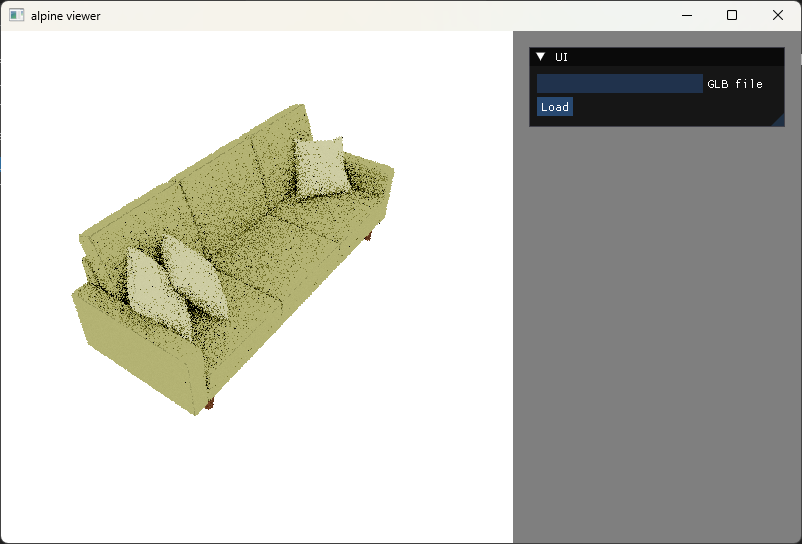
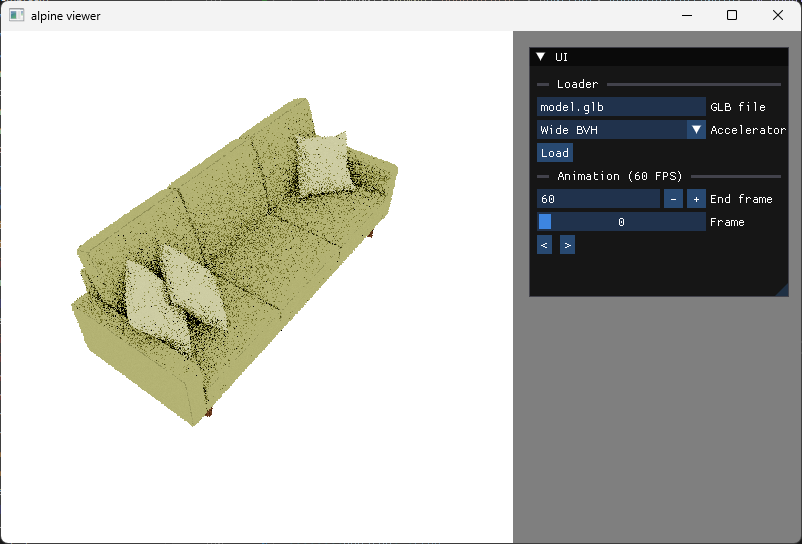
update viewer UI

diff --git a/applications/viewer/main.cpp b/applications/viewer/main.cpp
@@ -23,8 +23,10 @@ static constexpr float ZOOM_SPEED = 0.5f;
 static constexpr float DELTA_TIME = 1.0f / 60.0f;
 
 alpine::api::Camera* gCamera = nullptr;
+alpine::AcceleratorType gAcceleratorType = alpine::AcceleratorType::Bvh;
 
-float gTime = 0.0f;
+int gFrame = 0;
+int gEndFrame = 60;
 
 GLuint createRenderTexture()
 {
@@ -75,22 +77,11 @@ void updateRenderTexture(GLuint rt, const void* pixels)
     glBindTexture(GL_TEXTURE_2D, 0);
 }
 
-void updateScene(GLFWwindow* window)
+void updateScene()
 {
-    if (!alpine::isDynamicScene())
-    {
-        return;
-    }
-
-    bool isRightPressed = glfwGetKey(window, GLFW_KEY_RIGHT) == GLFW_PRESS;
-    bool isLeftPressed = glfwGetKey(window, GLFW_KEY_LEFT) == GLFW_PRESS;
-
-    if (isRightPressed || isLeftPressed)
-    {
-        gTime = isRightPressed ? gTime + DELTA_TIME : std::max(gTime - DELTA_TIME, 0.0f);
-        alpine::updateScene(gTime);
-        alpine::resetAccumulation();
-    }
+    float time = static_cast<float>(gFrame) * DELTA_TIME;
+    alpine::updateScene(time);
+    alpine::resetAccumulation();
 }
 
 void updateCamera()
@@ -159,29 +150,84 @@ void showRenderTexturePanel(GLuint rt)
     ImGui::PopStyleVar(2);
 }
 
-void showLoadButton()
+void showLoader()
 {
-    ImGui::SetNextWindowPos(ImVec2(IMAGE_WIDTH + 16, 16), ImGuiCond_Once);
-    ImGui::SetNextWindowSize(ImVec2(256, 80), ImGuiCond_Once);
+    ImGui::SeparatorText("Loader");
 
-    ImGui::Begin("UI");
+    static char sFile[512] = "";
+    ImGui::InputText("GLB file", sFile, sizeof(sFile));
 
-    static char file[512] = "";
-    ImGui::InputText("GLB file", file, sizeof(file));
+    static const char* kAcceleratorLabels[] = {
+        "BVH",
+        "Wide BVH",
+        "Embree",
+    };
+
+    int acceleratorType = static_cast<int>(gAcceleratorType);
+    if (ImGui::Combo("Accelerator", &acceleratorType, kAcceleratorLabels, IM_ARRAYSIZE(kAcceleratorLabels)))
+    {
+        gAcceleratorType = static_cast<alpine::AcceleratorType>(acceleratorType);
+    }
 
     if (ImGui::Button("Load"))
     {
-        alpine::resetScene(alpine::AcceleratorType::WideBvh);
+        alpine::resetScene(gAcceleratorType);
 
-        bool loaded = alpine::load(file, alpine::FileType::Gltf);
+        bool loaded = alpine::load(sFile, alpine::FileType::Gltf);
         if (loaded)
         {
-            gTime = 0.0f;
-            alpine::updateScene(gTime);
+            gFrame = 0;
             alpine::buildLightSampler(alpine::LightSamplerType::Bvh);
-            alpine::resetAccumulation();
+            updateScene();
         }
     }
+}
+
+void showAnimationController()
+{
+    ImGui::SeparatorText("Animation (60 FPS)");
+
+    bool updated = false;
+
+    if (ImGui::InputInt("End frame", &gEndFrame))
+    {
+        gFrame = std::min(gFrame, gEndFrame);
+        updated = true;
+    }
+
+    if (ImGui::SliderInt("Frame", &gFrame, 0, gEndFrame))
+    {
+        updated = true;
+    }
+
+    if (ImGui::Button("<"))
+    {
+        gFrame = std::max(gFrame - 1, 0);
+        updated = true;
+    }
+    ImGui::SameLine();
+
+    if (ImGui::Button(">"))
+    {
+        gFrame = std::min(gFrame + 1, gEndFrame);
+        updated = true;
+    }
+
+    if (updated && alpine::isDynamicScene())
+    {
+        updateScene();
+    }
+}
+
+void showUi()
+{
+    ImGui::SetNextWindowPos(ImVec2(IMAGE_WIDTH + 16, 16), ImGuiCond_Once);
+    ImGui::SetNextWindowSize(ImVec2(260, 250), ImGuiCond_Once);
+
+    ImGui::Begin("UI");
+
+    showLoader();
+    showAnimationController();
 
     ImGui::End();
 }
@@ -219,6 +265,8 @@ int main(int argc, char* argv[])
     alpine::initialize(
         MEMORY_ARENA_SIZE, IMAGE_WIDTH, IMAGE_HEIGHT, MAX_DEPTH);
 
+    alpine::resetScene(gAcceleratorType);
+
     const float eye[] = { 0.0f, 0.0f, -3.0f };
     const float target[] = { 0.0f, 0.0f, 0.0f };
     const float up[] = { 0.0f, 1.0f, 0.0f };
@@ -236,8 +284,6 @@ int main(int argc, char* argv[])
     {
         glfwPollEvents();
 
-        updateScene(window);
-
         alpine::render(1);
         alpine::resolve(false);
 
@@ -249,7 +295,7 @@ int main(int argc, char* argv[])
 
         showRenderTexturePanel(rt);
 
-        showLoadButton();
+        showUi();
 
         ImGui::Render();
 

diff --git a/src/alpine.cpp b/src/alpine.cpp
@@ -260,10 +260,7 @@ Alpine::resetAccumulation()
 void
 Alpine::render(uint32_t spp)
 {
-    if (!mAccelerator)
-    {
-        return;
-    }
+    assert(mAccelerator);
 
     for (uint32_t batchId = 0; batchId < mBatches.size(); ++batchId)
     {